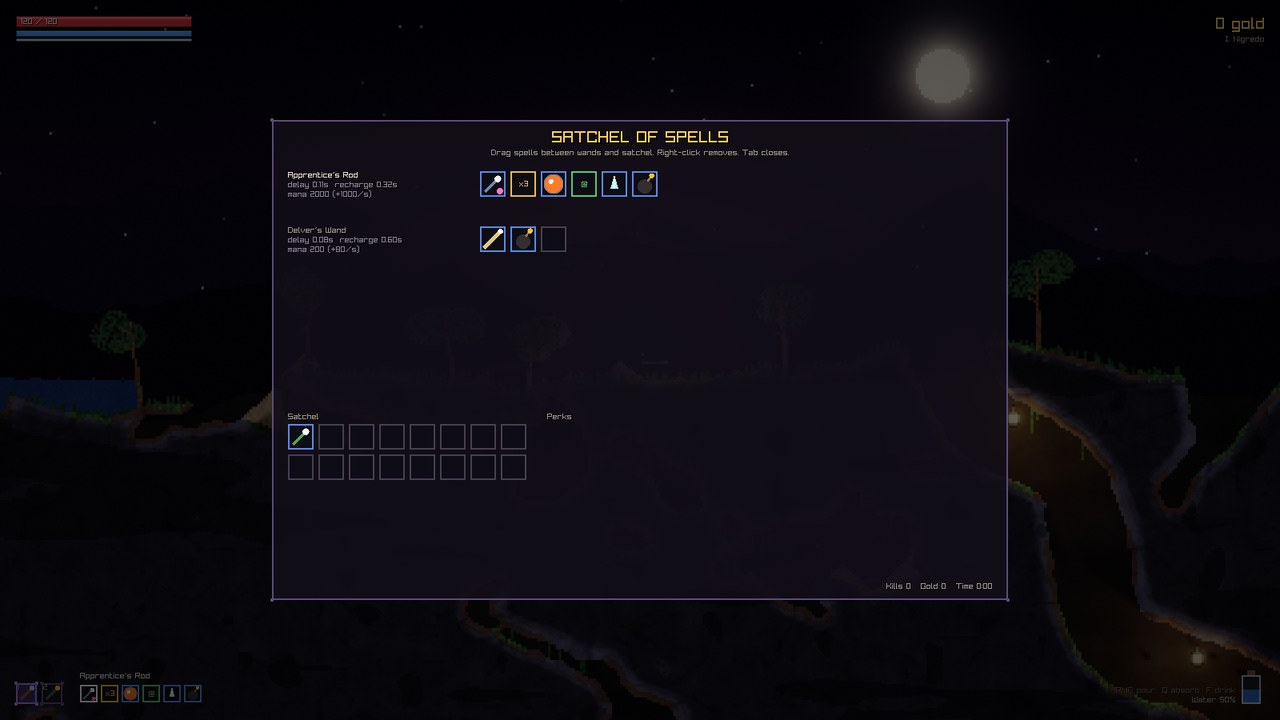
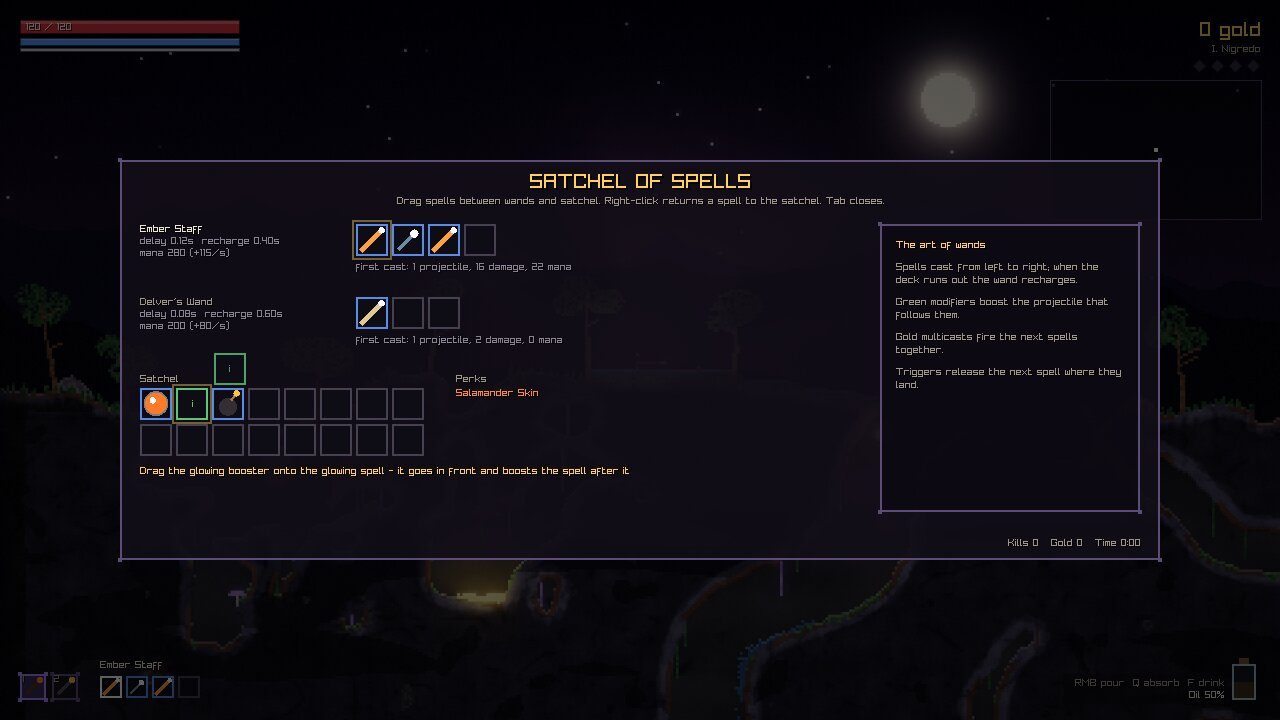
Docs: spell cards, satchel badge, descent strip; fresh editor and omen shots
README and the release notes describe the spell card's destination line, the
satchel badge, the editor dropping a modifier in front of a spell, and the
death screen's descent strip. The omen screenshot shows the title card clear
of the alchemist, and the wand editor screenshot shows the guided booster
drop.

Claude-Session: https://claude.ai/code/session_01SS7k2x4EpKFxcss3PJLjx6

diff --git a/README.md b/README.md
@@ -52,9 +52,10 @@ Menus work with the mouse, the keyboard (arrows / Enter / Esc) or a gamepad (D-p
 - **Wands** cast their spell cards in order. *Modifiers* (Damage Plus, Homing, Fire Trail...)
   affect every projectile in the same cast, *multicasts* fire several cards at once, and
   *trigger* spells release the next card where they land. 50 spells, randomly rolled wands
-  and four wand slots make every run's arsenal different. An attack spell you find drops
-  straight into an empty slot of the wand in hand; the rest wait in the satchel, and the
-  wand editor (`Tab`) walks you through your first drag.
+  and four wand slots make every run's arsenal different. A spell's card says what it does
+  and where it will go: an attack spell drops straight into an empty slot of the wand in
+  hand, the rest wait in the satchel (a HUD badge counts them). The wand editor (`Tab`)
+  walks you through your first drag; a modifier dropped onto a spell goes in front of it.
 - **The flask** absorbs any liquid or powder (`Q`) and pours it back out (right mouse): carry
   water to douse fires, acid to dissolve walls, oil to set traps. Drinking has effects too:
   Vitae heals, quicksilver lends haste and ichor lends your spells fury.
@@ -94,8 +95,9 @@ Menus work with the mouse, the keyboard (arrows / Enter / Esc) or a gamepad (D-p
   start of the stage you were on. The pause menu also has *How to Play*, with every
   control for the keyboard or the gamepad, whichever you used last.
 - **Runs** are seeded. The *Daily Rite* gives everyone the same seed and kit for the day, and
-  three difficulties tune the challenge. The death screen shows how close the next path is
-  to unlocking and any personal bests, and *Retry Seed* walks the same stages again.
+  three difficulties tune the challenge. The death screen shows how far down you got and
+  which stages lie below, how close the next path is to unlocking and any personal bests,
+  and *Retry Seed* walks the same stages again.
 - **Paths:** milestones unlock four more starting loadouts - the *Pyromancer*, *Geomancer*,
   *Stormcaller* and *Hermeticist* - each with its own wands, flask and gifts.
 - **Ordeals:** completing the Great Work opens the first of eight stacking ordeals, chosen

diff --git a/docs/RELEASE_NOTES.md b/docs/RELEASE_NOTES.md
@@ -16,8 +16,10 @@ switches to a window.
 - Eight stacking Ordeals for after your first Great Work, unlockable starting paths, 26 feats to earn, a Grimoire of everything you have
   discovered with a chronicle of recent runs (replay any seed), a Daily Rite seed, three difficulties and an Alchemy
   Sandbox to experiment freely.
-- Found attack spells slot straight into your wand, and the wand editor guides your first
-  edit (and works with a gamepad).
+- Found attack spells slot straight into your wand; every spell's card says what it does
+  and where it will go, and a HUD badge counts the spells waiting in your satchel. The wand
+  editor guides your first edit, drops a modifier in front of the spell it boosts, warns
+  about a booster with nothing after it, and works with a gamepad.
 - A matter lens: rest the cursor on any substance or creature to learn what it does.
 - Lanterns you can shoot down onto foes, and elites with Burning, Swift or Gilded affixes.
 - The world is a weapon: creatures slain by fire, lava, acid, blasts or cave-ins are named
@@ -30,8 +32,8 @@ switches to a window.
   mountain that stirs: cave-ins, breaches, marsh gas, swarms and falls of gold.
 - A compass that follows the route, a map that marks the portal from the start,
   contextual hints for new players, How to Play in the pause menu, and a death screen
-  that tells you what got you, how to avoid it, how close your next starting path is and
-  lets you retry the same seed (or try again as an Apprentice).
+  that tells you what got you, how to avoid it, how far down you got, how close your next
+  starting path is and lets you retry the same seed (or try again as an Apprentice).
 - All art, sound and music are generated procedurally by the game.
 
 Controls: `A/D` move · `W/Space` jump (hold to levitate) · mouse aim · `LMB` cast ·
